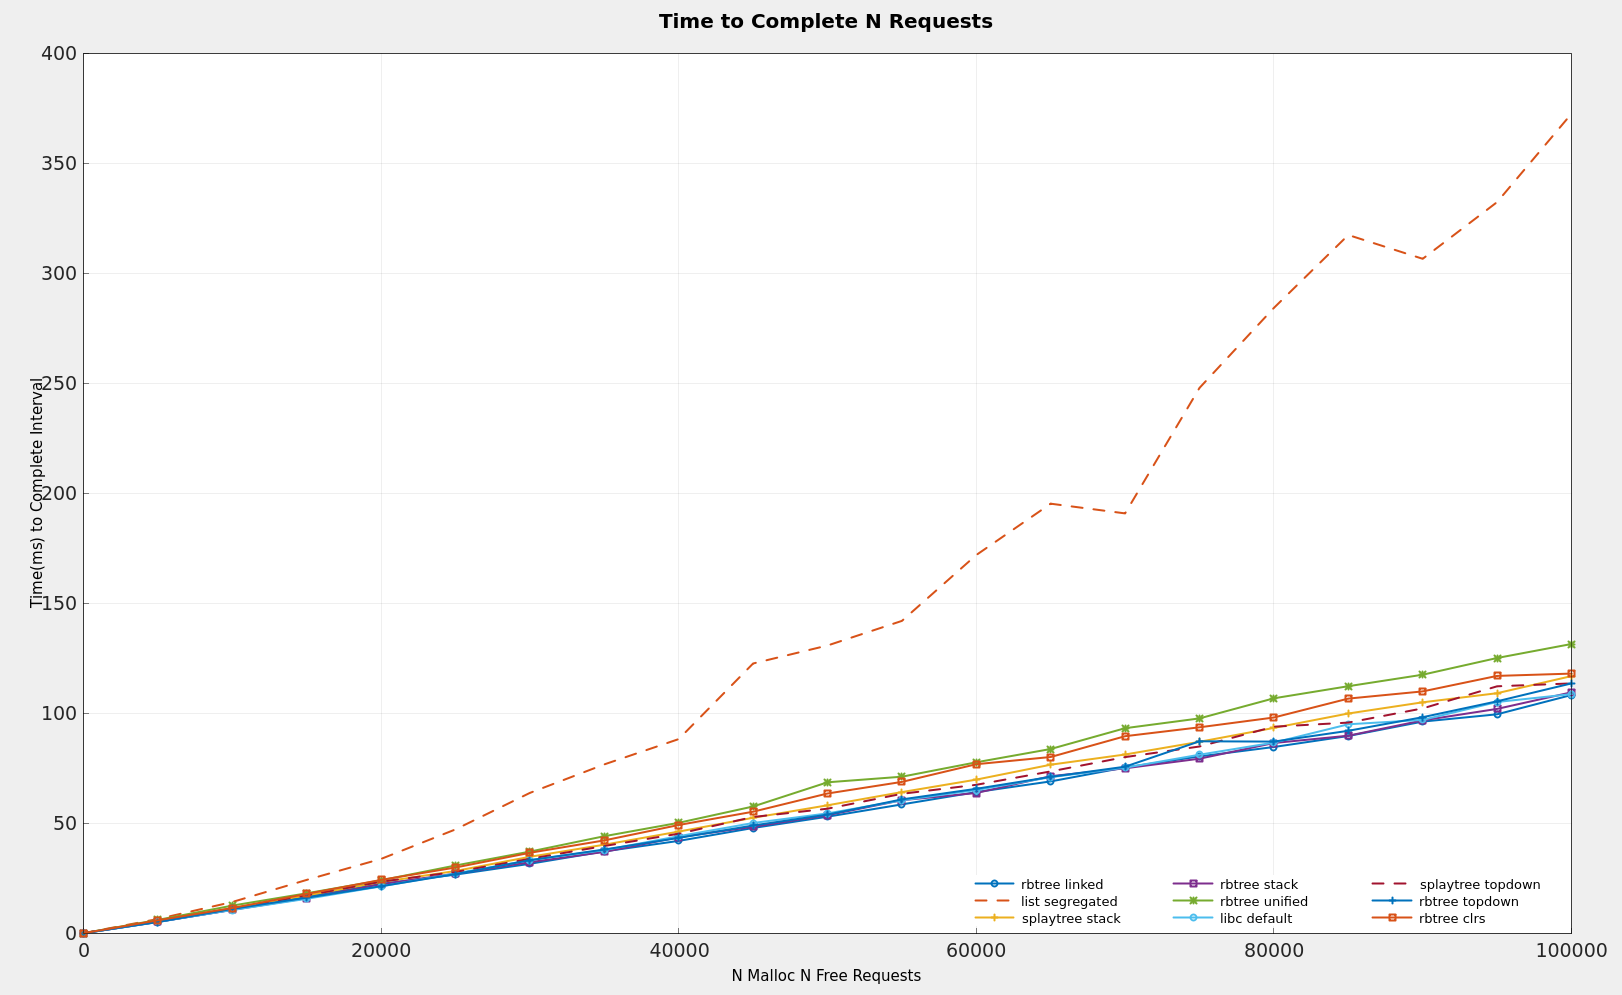
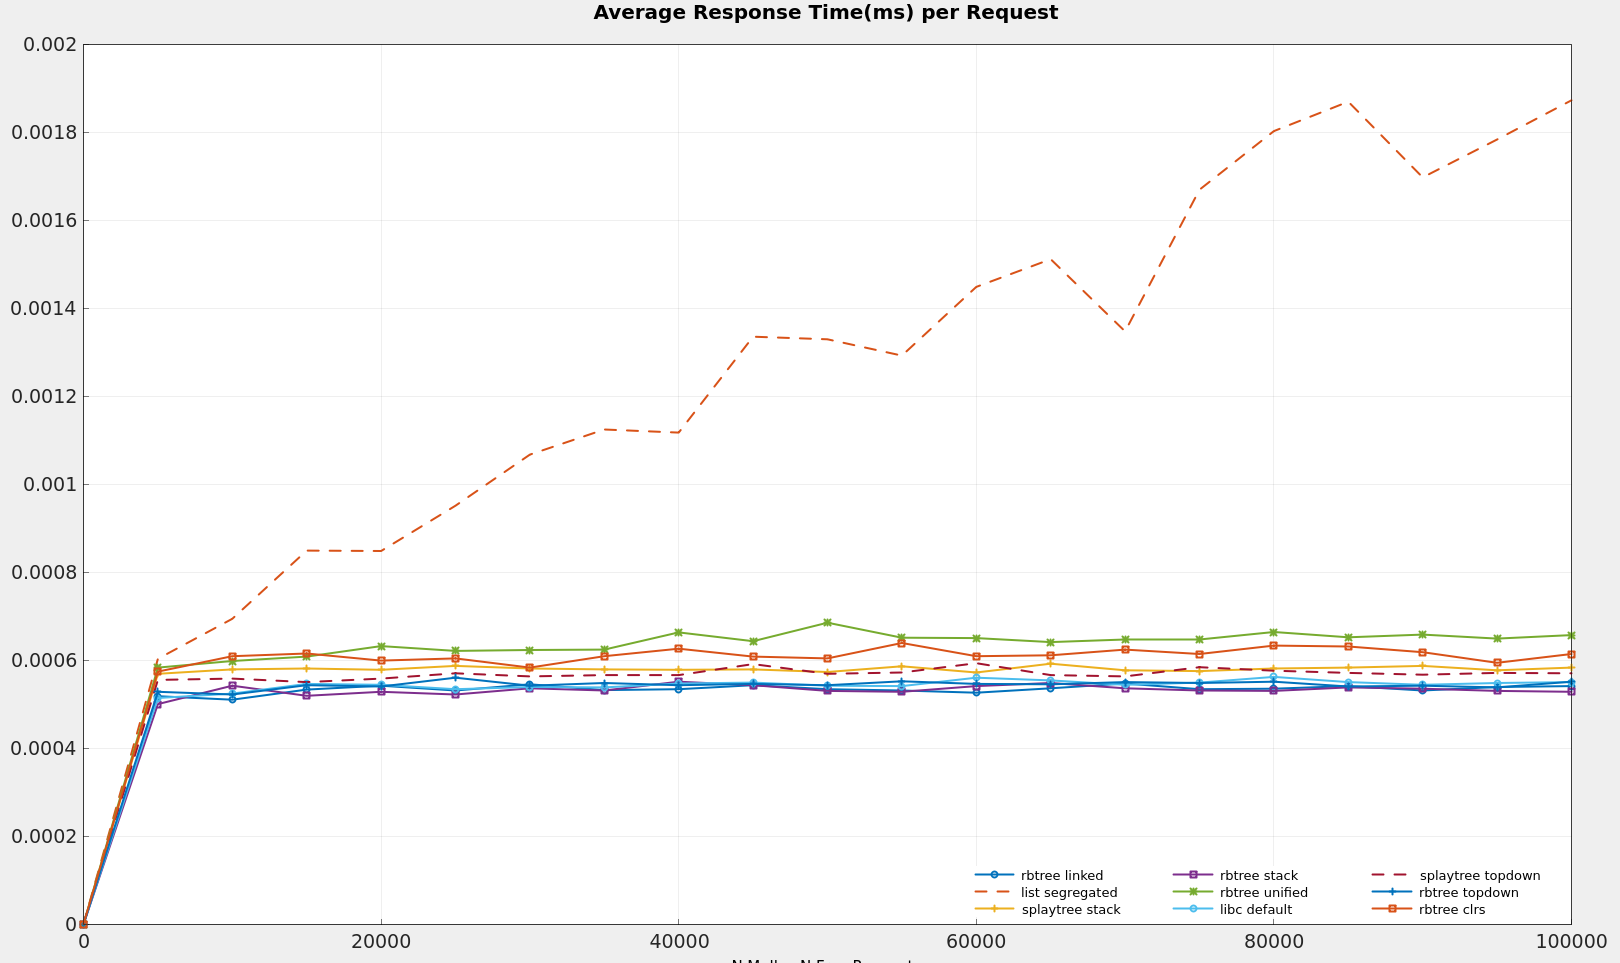
file image replace

diff --git a/tests/plot.cc b/tests/plot.cc
@@ -270,21 +270,21 @@ void run_bigo_analysis( const std::vector<path_bin> &commands, const plot_args &
                 heap_operation::malloc_free,
                 {
                     .interval_labels{
-                        "Time to Complete N Requests",
+                        "Time(ms) to Complete N Requests",
                         "N Malloc N Free Requests",
                         "Time(ms) to Complete Interval",
                         "output/mallocfree-interval.svg",
                     },
                     .response_labels{
-                        "Average Response Time per Request",
+                        "Average Response Time(ms) per Request",
                         "N Malloc N Free Requests",
                         "Average Time(ms) per Request",
                         "output/mallocfree-response.svg",
                     },
                     .utilization_labels{
-                        "Utilization (libc excluded)",
+                        "Utilization % (libc excluded)",
                         "N Malloc N Free Requests",
-                        "Time(ms)",
+                        "Percent %",
                         "output/mallocfree-utilization.svg",
                     },
                 },
@@ -299,21 +299,21 @@ void run_bigo_analysis( const std::vector<path_bin> &commands, const plot_args &
                 heap_operation::realloc_free,
                 {
                     .interval_labels{
-                        "Time to Complete N Requests",
+                        "Time(ms) to Complete N Requests",
                         "N Realloc Requests",
                         "Time(ms) to Complete Interval",
                         "output/realloc-interval.svg",
                     },
                     .response_labels{
-                        "Average Response Time per Request",
+                        "Average Response Time(ms) per Request",
                         "N Realloc Requests",
                         "Average Time(ms) per Request",
                         "output/realloc-response.svg",
                     },
                     .utilization_labels{
-                        "Utilization (libc excluded)",
+                        "Utilization % (libc excluded)",
                         "N Realloc Requests",
-                        "Time(ms)",
+                        "Percent %",
                         "output/realloc-utilization.svg",
                     },
                 },
@@ -398,15 +398,15 @@ void plot_script_comparison( const std::vector<path_bin> &commands, plot_args &a
         .filename = save_interval,
     };
     args.response_labels = {
-        .title = "Average Response Time during Script",
+        .title = "Average Response Time(ms) during Script",
         .x_label = "Allocators",
         .y_label = "Time(ms)",
         .filename = save_response,
     };
     args.utilization_labels = {
-        .title = "Utilization (libc excluded)",
+        .title = "Utilization % (libc excluded)",
         .x_label = "Allocators",
-        .y_label = "Time(ms)",
+        .y_label = "Percent %",
         .filename = save_utilization,
     };
     for ( const auto &c : commands ) {
@@ -580,7 +580,6 @@ void line_plot_stats( const runtime_metrics &m, data_set_type t, labels l, bool 
     auto axes = p->current_axes();
     axes->title( l.title );
     axes->xlabel( l.x_label );
-    axes->ylabel( l.y_label );
     axes->grid( true );
     axes->font_size( 14.0 );
     size_t tick_style = 0;
@@ -624,7 +623,6 @@ void bar_chart_stats( const runtime_metrics &m, data_set_type t, labels l, bool 
     auto axes = p->current_axes();
     axes->title( l.title );
     axes->xlabel( l.x_label );
-    axes->ylabel( l.y_label );
     axes->grid( true );
     axes->font_size( 14.0 );
     size_t tick_style = 0;

diff --git a/docs/runtime_analysis.md b/docs/runtime_analysis.md
@@ -33,8 +33,6 @@ I then hardcoded all of these commands that I wanted into the `plot.cc` file and
 
 For more details about how the timing functions work or how the program parses arguments please see the code.
 
-> **Read my code here ([`time_harness.c`](/src/time_harness.c)).**
-
 ## Inserting and Deleting
 
 To set up a measurement of inserting and deleting into a Red-Black Tree we start by forming a script with 2N allocations and then measure the time to insert N elements, `free()`, and delete N elements, `malloc()` from our tree. Remember, we have now dropped down to the milliseconds level, compared to the seconds level we used when analyzing a doubly linked list allocator. Here are the results across allocators.
